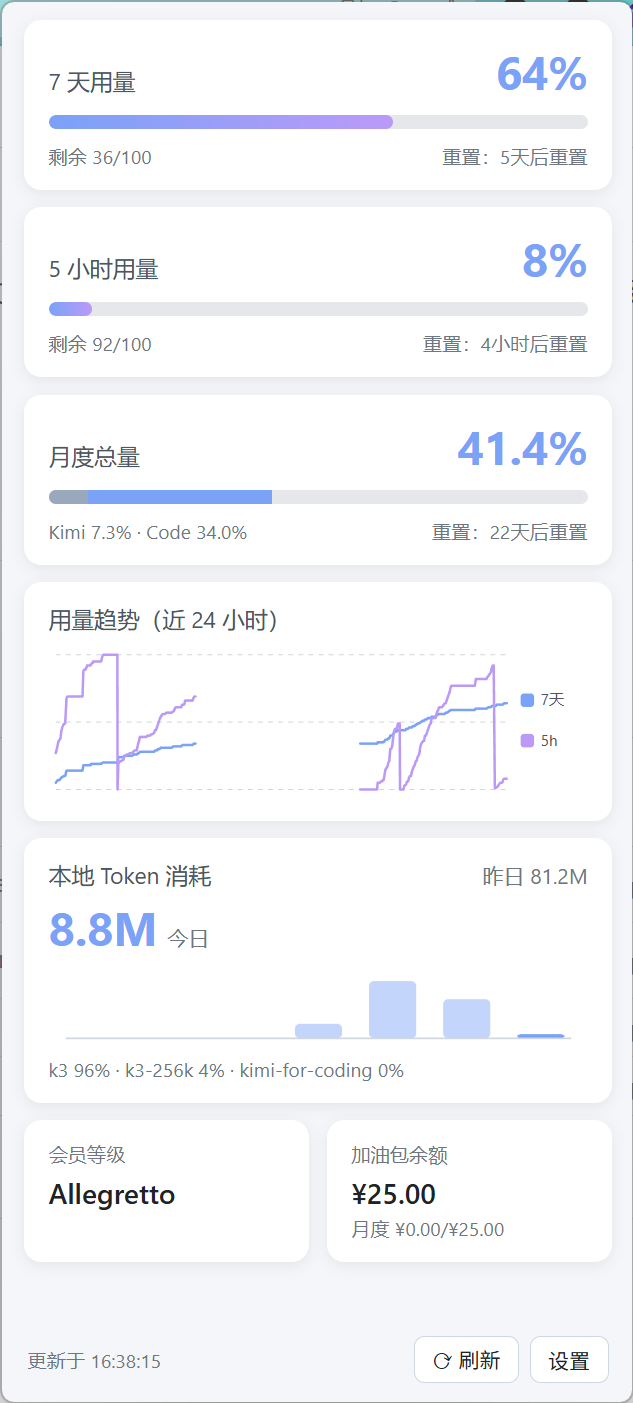
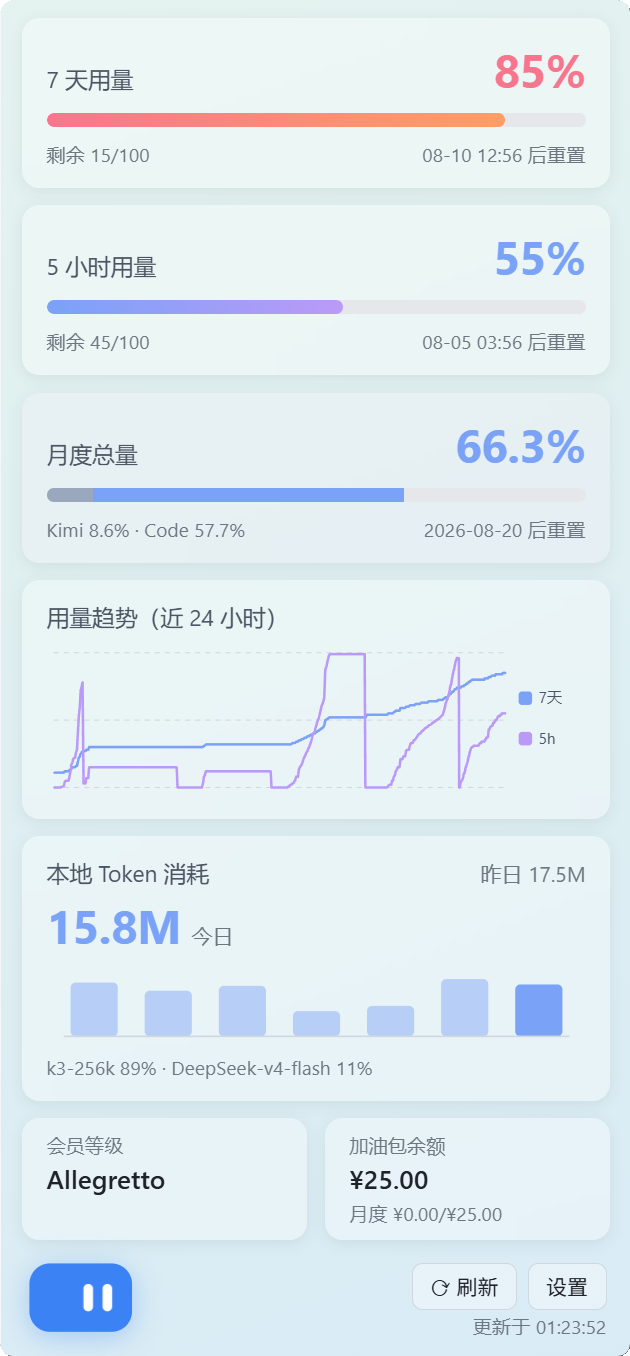
docs: README 中英更新 v1.1.0 特性（自适应刷新/团子/官网）与新截图

Changed region(s): [[0.0, 0.0, 1.0, 1.0], [0.8143, 0.7124, 0.9048, 0.7743], [0.6937, 0.7124, 0.7841, 0.7743]]

diff --git a/README_EN.md b/README_EN.md
@@ -13,6 +13,8 @@ Built with **Tauri 2 + Rust + React**: installer under 3 MB, ~10–20 MB RAM in 
 
 > Community project, not an official Kimi product.
 >
+> **Official site**: [jyh1878.github.io/KimiCodeBar-Windows](https://jyh1878.github.io/KimiCodeBar-Windows/)
+>
 > **On macOS? Use the original [xifandev/KimiCodeBar](https://github.com/xifandev/KimiCodeBar)** (maintained by @xifandev, [official site](https://xifandev.github.io/KimiCodeBar/)) — this repo is the author-endorsed community port for Windows; the two repos are maintained and released independently.
 
 ## Features
@@ -25,10 +27,11 @@ Built with **Tauri 2 + Rust + React**: installer under 3 MB, ~10–20 MB RAM in 
 - **Usage trend chart**: 24-hour dual-line history (7-day / 5-hour), recorded locally — facts only, no prediction
 - **Light / dark theme**: follows the system or switch manually
 - **Panel background**: preset gradients (Night / Aurora / Violet / Ember, each adapted to light & dark themes) or a custom image (PNG / JPG / WebP, ≤10MB), with translucent frosted cards
+- **Panel mascot**: an animated blue dumpling (vector SVG) in the bottom-left corner of the panel — blinks and glances around, adapts to light/dark themes; purely decorative
 - **Two sign-in methods**
   - **API Key**: paste a `sk-kimi-` key, stored in Windows Credential Manager
   - **Account authorization**: OAuth device flow (same as the Kimi Code CLI), one-click browser authorization with automatic token refresh
-- **Auto refresh**: polls every 5 minutes by default (1–60 min configurable)
+- **Adaptive refresh**: polls every 5 minutes by default (1–60 min configurable); tightens to 1-minute polling while a local Kimi session is active (new token usage within the last 10 minutes) and relaxes back when idle — switchable to fixed mode in Settings (adaptive by default)
 - **Low-quota alerts**: tray icon turns red and a system notification fires when any window drops below the threshold (default 20%, configurable)
 - **Works offline**: last successful result is cached locally and shown without errors when the network is down
 - **Auto update**: silently checks GitHub Releases; an update badge appears in the panel when a new version is available
@@ -145,7 +148,7 @@ cd src-tauri && cargo test
 ## Engineering & quality
 
 - **CI gates**: every push / PR runs `cargo fmt --check`, `cargo clippy -D warnings`, ESLint and `cargo test` ([workflow](.github/workflows/ci.yml))
-- **Test strategy**: 110+ unit/integration tests focusing on defensive parsing of the usage API (missing fields, proto3 omissions, field aliases, currency unit conversion), OAuth flow logic, version comparison and storage round-trips; real API responses (sanitized) are kept as regression fixtures
+- **Test strategy**: 180+ unit/integration tests focusing on defensive parsing of the usage API (missing fields, proto3 omissions, field aliases, currency unit conversion), OAuth flow logic, version comparison and storage round-trips; real API responses (sanitized) are kept as regression fixtures
 - **Dependabot**: weekly PRs for npm / cargo / GitHub Actions updates
 - **Automated releases**: pushing a `v*` tag builds the NSIS installer and portable zip in CI and drafts a GitHub Release ([workflow](.github/workflows/release.yml))
 
